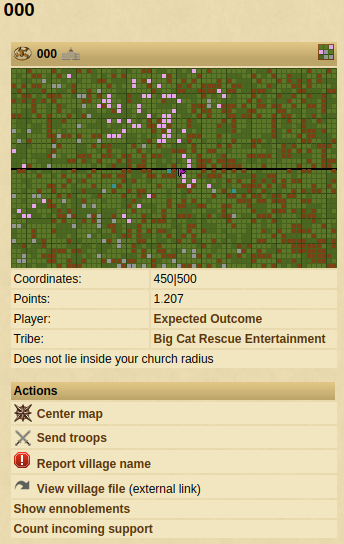
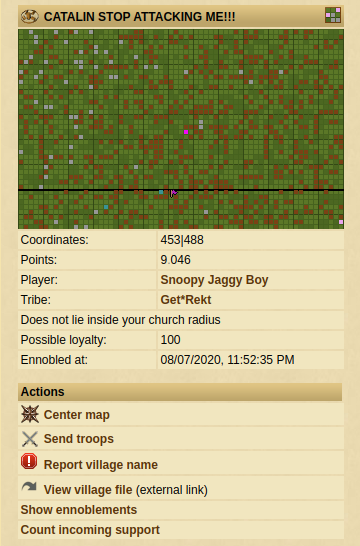
update readme.md and screenshots/extendedVillageProfile.png, translate some fields from extendedVillageProfile into Polish

diff --git a/dist/quickbar/extendedVillageProfile.js b/dist/quickbar/extendedVillageProfile.js
@@ -1,7 +1,7 @@
 parcelRequire=function(e,r,t,n){var i,o="function"==typeof parcelRequire&&parcelRequire,u="function"==typeof require&&require;function f(t,n){if(!r[t]){if(!e[t]){var i="function"==typeof parcelRequire&&parcelRequire;if(!n&&i)return i(t,!0);if(o)return o(t,!0);if(u&&"string"==typeof t)return u(t);var c=new Error("Cannot find module '"+t+"'");throw c.code="MODULE_NOT_FOUND",c}p.resolve=function(r){return e[t][1][r]||r},p.cache={};var l=r[t]=new f.Module(t);e[t][0].call(l.exports,p,l,l.exports,this)}return r[t].exports;function p(e){return f(p.resolve(e))}}f.isParcelRequire=!0,f.Module=function(e){this.id=e,this.bundle=f,this.exports={}},f.modules=e,f.cache=r,f.parent=o,f.register=function(r,t){e[r]=[function(e,r){r.exports=t},{}]};for(var c=0;c<t.length;c++)try{f(t[c])}catch(e){i||(i=e)}if(t.length){var l=f(t[t.length-1]);"object"==typeof exports&&"undefined"!=typeof module?module.exports=l:"function"==typeof define&&define.amd?define(function(){return l}):n&&(this[n]=l)}if(parcelRequire=f,i)throw i;return f}({"Ph2E":[function(require,module,exports) {
 "use strict";Object.defineProperty(exports,"__esModule",{value:!0}),exports.default=exports.API_URI=void 0;const e="https://api.tribalwarshelp.com/graphql";exports.API_URI=e;var r=function(){let{query:r,variables:t={}}=arguments.length>0&&void 0!==arguments[0]?arguments[0]:{};return fetch(e,{method:"POST",body:JSON.stringify({query:r,variables:t}),headers:{"Content-Type":"application/json"}}).then(e=>e.json()).then(e=>{let{data:r,errors:t}=e;if(t&&Array.isArray(t)&&t.length>0)throw new Error(t[0].message);return new Promise(e=>e(r))})};exports.default=r;
 },{}],"LNef":[function(require,module,exports) {
-"use strict";Object.defineProperty(exports,"__esModule",{value:!0}),exports.default=void 0;const o={pl_PL:{loaded:"Załadowano",pop:"Populacja",mySupport:"Moje wsparcie",allySupport:"Wsparcie plemienia",total:"Łącznie",action:{showEnnoblements:"Pokaż przejęcia",countIncomingSupport:"Policz nadchodzące wsparcie"}},en_DK:{loaded:"Loaded",pop:"Pop",mySupport:"My support",allySupport:"Ally support",total:"Total",action:{showEnnoblements:"Show ennoblements",countIncomingSupport:"Count incoming support"}}};var e=()=>o[window.game_data.locale]||o.en_DK;exports.default=e;
+"use strict";Object.defineProperty(exports,"__esModule",{value:!0}),exports.default=void 0;const o={pl_PL:{loaded:"Załadowano",pop:"Populacja",mySupport:"Moje wsparcie",allySupport:"Wsparcie plemienia",total:"Łącznie",possibleLoyalty:"Prawdopodobne poparcie",ennobledAt:"Podbita o",action:{showEnnoblements:"Pokaż przejęcia",countIncomingSupport:"Policz nadchodzące wsparcie"}},en_DK:{loaded:"Loaded",pop:"Pop",mySupport:"My support",allySupport:"Ally support",total:"Total",possibleLoyalty:"Possible loyalty",ennobledAt:"Ennobled at",action:{showEnnoblements:"Show ennoblements",countIncomingSupport:"Count incoming support"}}};var e=()=>o[window.game_data.locale]||o.en_DK;exports.default=e;
 },{}],"fCHX":[function(require,module,exports) {
 "use strict";Object.defineProperty(exports,"__esModule",{value:!0}),exports.generatePaginationItems=exports.calcNumberOfPages=exports.getPage=exports.setPage=exports.getContainerStyles=void 0;const e="data-page",t=()=>"display: flex; flex-direction: row; flex-wrap: wrap;";exports.getContainerStyles=t;const r=function(t){let r=arguments.length>1&&void 0!==arguments[1]?arguments[1]:1;if(!t instanceof HTMLElement)throw new Error("Expected HTMLElement as the first argument");if("number"!=typeof(r=parseInt(r))||isNaN(r))throw new Error("Expected number or string as the second argument");t.setAttribute(e,r+"")};exports.setPage=r;const n=t=>!t instanceof HTMLElement?0:parseInt(t.getAttribute(e));exports.getPage=n;const o=(e,t)=>{if("number"!=typeof e)throw new Error("Expected number as the first argument");if("number"!=typeof t)throw new Error("Expected number as the second argument");return e>0?Math.ceil(e/t):1};exports.calcNumberOfPages=o;const a=function(){let{total:t,limit:r,marginRight:n=3,currentPage:a=0}=arguments.length>0&&void 0!==arguments[0]?arguments[0]:{};const s=o(t,r),c=[];for(let o=1;o<=s;o++)o===a?c.push('<strong style="margin-right: '.concat(n,'px">>').concat(o,"<</strong>")):c.push('<a style="margin-right: '.concat(n,'px" href="#" ').concat(e,'="').concat(o,'">').concat(o,"</a>"));return c};exports.generatePaginationItems=a;
 },{}],"DMkL":[function(require,module,exports) {
@@ -35,5 +35,5 @@ parcelRequire=function(e,r,t,n){var i,o="function"==typeof parcelRequire&&parcel
 },{}],"vNT1":[function(require,module,exports) {
 "use strict";Object.defineProperty(exports,"__esModule",{value:!0}),exports.default=void 0;var t=l(require("../i18n/showEnnoblementsPopup")),e=require("../utils/pagination"),n=l(require("../utils/showPopup")),a=l(require("../utils/formatDate")),o=require("../utils/tribalwars");function l(t){return t&&t.__esModule?t:{default:t}}const r="ennoblementsPagination",i=(0,t.default)(),c=(t,e)=>t?'<td><a href="'.concat((0,o.formatPlayerURL)(t.id),'">').concat(t.name," (").concat(e?'<a href="'.concat((0,o.formatTribeURL)(e.id),'">').concat(e.tag,"</a>"):"-",")</a></td>"):"<td>-</td>";var d=function(t,l){let{limit:d=0,currentPage:s=1,onPageChange:u=(()=>{})}=arguments.length>2&&void 0!==arguments[2]?arguments[2]:{};const g=(0,e.generatePaginationItems)({total:l.total,limit:d,currentPage:s}),m='\n    <div style="'.concat((0,e.getContainerStyles)(),'" id="').concat(r,'">\n      ').concat(g.join(""),'\n    </div>\n    <table class="vis" style="border-collapse: separate; border-spacing: 2px; width: 100%;">\n      <tbody>\n        <tr>\n          <th>\n            ').concat(i.date,"\n          </th>\n          <th>\n            ").concat(i.village,"\n          </th>\n          <th>\n            ").concat(i.newOwner,"\n          </th>\n          <th>\n            ").concat(i.oldOwner,"\n          </th>\n        </tr>\n        ").concat(l.items.map(t=>{let e="<tr>"+"<td>".concat((0,a.default)(t.ennobledAt),"</td>");return t.village?e+='<td><a href="'.concat((0,o.formatVillageURL)(t.village.id),'">').concat((0,o.formatVillageName)(t.village.name,t.village.x,t.village.y),"</a></td>"):e+="<td>-</td>",e+=c(t.newOwner,t.newOwnerTribe),(e+=c(t.oldOwner,t.oldOwnerTribe))+"</tr>"}).join(""),"\n      </tbody>\n    </table>\n  ");(0,n.default)({e:t,title:i.title,id:"ennoblements",html:m}),document.querySelectorAll("#ennoblementsPagination a").forEach(t=>{t.addEventListener("click",u)})};exports.default=d;
 },{"../i18n/showEnnoblementsPopup":"tKRp","../utils/pagination":"fCHX","../utils/showPopup":"chDM","../utils/formatDate":"V6Mf","../utils/tribalwars":"fHHP"}],"UdfQ":[function(require,module,exports) {
-"use strict";var e=u(require("./libs/requestCreator")),n=u(require("./i18n/extendedVillageProfile")),t=require("./utils/pagination"),r=u(require("./utils/getCurrentServer")),o=u(require("./utils/getIDFromURL")),a=u(require("./utils/buildUnitImgURL")),i=u(require("./utils/formatDate")),l=u(require("./utils/wait")),c=require("./utils/localStorage"),s=u(require("./utils/countLoyalty")),d=u(require("./common/showEnnoblementsPopup"));function u(e){return e&&e.__esModule?e:{default:e}}function p(e,n){var t=Object.keys(e);if(Object.getOwnPropertySymbols){var r=Object.getOwnPropertySymbols(e);n&&(r=r.filter(function(n){return Object.getOwnPropertyDescriptor(e,n).enumerable})),t.push.apply(t,r)}return t}function m(e){for(var n=1;n<arguments.length;n++){var t=null!=arguments[n]?arguments[n]:{};n%2?p(Object(t),!0).forEach(function(n){g(e,n,t[n])}):Object.getOwnPropertyDescriptors?Object.defineProperties(e,Object.getOwnPropertyDescriptors(t)):p(Object(t)).forEach(function(n){Object.defineProperty(e,n,Object.getOwnPropertyDescriptor(t,n))})}return e}function g(e,n,t){return n in e?Object.defineProperty(e,n,{value:t,enumerable:!0,configurable:!0,writable:!0}):e[n]=t,e}const f=(0,r.default)(),b=(0,o.default)(window.location.search),h="\n    query ennoblements($server: String!, $filter: EnnoblementFilter!) {\n        ennoblements(server: $server, filter: $filter) {\n            items {\n                ennobledAt\n                village {\n                    id\n                }\n            }\n        }\n    }\n",y="\n    query ennoblements($server: String!, $filter: EnnoblementFilter!) {\n      ennoblements(server: $server, filter: $filter) {\n        total\n        items {\n          village {\n            id\n            name\n            x\n            y\n          }\n          oldOwner {\n            id\n            name\n          }\n          oldOwnerTribe {\n            id\n            tag\n          }\n          newOwner {\n            id\n            name\n          }\n          newOwnerTribe {\n            id\n            tag\n          }\n          ennobledAt\n        }\n      }\n    }\n",v=15,w="\n    query server($key: String!) {\n        server(key: $key) {\n            config {\n              speed\n            }\n            unitConfig {\n              spear {\n                pop\n              }\n              sword {\n                pop\n              }\n              axe {\n                pop\n              }\n              archer {\n                pop\n              }\n              spy {\n                pop\n              }\n              light {\n                pop\n              }\n              marcher {\n                pop\n              }\n              heavy {\n                pop\n              }\n              ram {\n                pop\n              }\n              catapult {\n                pop\n              }\n              knight {\n                pop\n              }\n              snob {\n                pop\n              }\n            }\n        }\n    }\n",q="kiszkowaty_extended_village_profile_server_cfg",O=document.querySelector("#content_value > table > tbody > tr > td:nth-child(1) > table:nth-child(2) > tbody"),S=document.querySelector("#content_value table.vis tbody");let E={};const j=(0,n.default)(),D=()=>(0,c.getItem)(q),P=function(){let e=arguments.length>0&&void 0!==arguments[0]?arguments[0]:{};(0,c.setItem)(q,e)},A=e=>Math.abs(e.getTime()-(new Date).getTime())>864e5,C=async()=>{let n=D();return n.server&&!A(new Date(n.loadedAt))&&n.server.unitConfig&&n.server.config||((n=await(0,e.default)({query:w,variables:{key:f}})).loadedAt=new Date,P(n)),n.server},L=async()=>{return await(0,e.default)({query:h,variables:{server:f,filter:{villageID:[b],sort:"ennobledAt DESC"}}})},_=async n=>{n.preventDefault();const r=(0,t.getPage)(n.target);if(!isNaN(r)){const t=await(0,e.default)({query:y,variables:{filter:{villageID:[b],offset:15*(r-1),limit:15,sort:"ennobledAt DESC"},server:f}});(0,d.default)(n,t.ennoblements,{currentPage:r,limit:15,onPageChange:_})}},k=e=>{const n=[];let t=0;for(let r in e)t+=e[r]*E.unitConfig[r].pop,n.push("<td>".concat(e[r].toLocaleString(),"</td>"));return n.push("<td><strong>".concat(t.toLocaleString(),"</strong></td>")),n},x=async e=>{e.preventDefault();const n=[],t={};document.querySelectorAll('span.command_hover_details[data-command-type="support"]').forEach(e=>{const r=parseInt(e.getAttribute("data-command-id"));e.classList.contains("commandicon-ally")?t[r]=!0:t[r]=!1,n.push(r)});const r={spear:0,sword:0,axe:0,archer:0,spy:0,light:0,marcher:0,heavy:0,ram:0,catapult:0,knight:0,snob:0},o=m({},r),i=m({},r);for(let a=0;a<n.length;a++){Dialog.show("incomingSupport","".concat(j.loaded,": <strong>").concat(a," / ").concat(n.length,"</strong>"));const e=n[a],c=TribalWars.buildURL("",{screen:"info_command",ajax:"details",id:e});try{const n=await fetch(c),{units:a}=await n.json();if(a)for(let l in r){const n=parseInt(a[l].count);t[e]?o[l]+=n:r[l]+=n,i[l]+=n}await(0,l.default)(200)}catch(g){console.log("count incoming support",g)}}const c=["<th></th>"];for(let l in r)c.push('<th><img src="'.concat((0,a.default)(l),'" /></th>'));c.push("<th>".concat(j.pop,"</th>"));const s=["<th>".concat(j.mySupport,"</th>"),...k(r)],d=["<th>".concat(j.allySupport,"</th>"),...k(o)],u=["<th>".concat(j.total,"</th>"),...k(i)];Dialog.show("incomingSupport",'\n    <table class="vis" style="width: 100%;">\n      <tbody>\n          <tr>\n            '.concat(c.join(""),"\n          </tr>\n          <tr>\n            ").concat(s.join(""),"\n          </tr>\n          <tr>\n            ").concat(d.join(""),"\n          </tr>\n          <tr>\n            ").concat(u.join(""),"\n          </tr>\n      </tbody>\n    </table>\n  "));const p=document.querySelector(".popup_box");p&&(p.style.width="auto",p.style.maxWidth="900px")},$=e=>{const n=document.createElement("td");n.colSpan="2",n.append(e);const t=document.createElement("tr");return t.appendChild(n),t},I=()=>{const e=document.createElement("a");e.href="#",(0,t.setPage)(e,"1"),e.innerHTML=j.action.showEnnoblements,e.addEventListener("click",_),O.appendChild($(e));const n=document.createElement("a");n.href="#",n.innerHTML=j.action.countIncomingSupport,n.addEventListener("click",x),O.appendChild($(n))},T=e=>{let{title:n,data:t,id:r}=e,o=document.querySelector("#"+r);o||((o=document.createElement("tr")).id=r,o.appendChild(document.createElement("td")),o.appendChild(document.createElement("td")),S.append(o)),o.children[0].innerHTML=n,o.children[1].innerHTML=t},M=function(){let{config:e,ennoblements:n}=arguments.length>0&&void 0!==arguments[0]?arguments[0]:{};const t=n&&Array.isArray(n.items)&&n.items[0]?n.items[0]:void 0;T({id:"loyalty",title:"Possible loyalty:",data:t?(0,s.default)(new Date(t.ennobledAt),e.speed):100}),T({id:"ennobledAt",title:"Ennobled at:",data:t?(0,i.default)(t.ennobledAt):"Never"})};!async function(){try{const n=await L();E=await C(),M({config:E.config,ennoblements:n.ennoblements}),I()}catch(e){console.log("extended village profile",e)}}();
+"use strict";var e=u(require("./libs/requestCreator")),n=u(require("./i18n/extendedVillageProfile")),t=require("./utils/pagination"),r=u(require("./utils/getCurrentServer")),o=u(require("./utils/getIDFromURL")),a=u(require("./utils/buildUnitImgURL")),i=u(require("./utils/formatDate")),l=u(require("./utils/wait")),c=require("./utils/localStorage"),s=u(require("./utils/countLoyalty")),d=u(require("./common/showEnnoblementsPopup"));function u(e){return e&&e.__esModule?e:{default:e}}function p(e,n){var t=Object.keys(e);if(Object.getOwnPropertySymbols){var r=Object.getOwnPropertySymbols(e);n&&(r=r.filter(function(n){return Object.getOwnPropertyDescriptor(e,n).enumerable})),t.push.apply(t,r)}return t}function m(e){for(var n=1;n<arguments.length;n++){var t=null!=arguments[n]?arguments[n]:{};n%2?p(Object(t),!0).forEach(function(n){g(e,n,t[n])}):Object.getOwnPropertyDescriptors?Object.defineProperties(e,Object.getOwnPropertyDescriptors(t)):p(Object(t)).forEach(function(n){Object.defineProperty(e,n,Object.getOwnPropertyDescriptor(t,n))})}return e}function g(e,n,t){return n in e?Object.defineProperty(e,n,{value:t,enumerable:!0,configurable:!0,writable:!0}):e[n]=t,e}const f=(0,r.default)(),b=(0,o.default)(window.location.search),h="\n    query ennoblements($server: String!, $filter: EnnoblementFilter!) {\n        ennoblements(server: $server, filter: $filter) {\n            items {\n                ennobledAt\n                village {\n                    id\n                }\n            }\n        }\n    }\n",y="\n    query ennoblements($server: String!, $filter: EnnoblementFilter!) {\n      ennoblements(server: $server, filter: $filter) {\n        total\n        items {\n          village {\n            id\n            name\n            x\n            y\n          }\n          oldOwner {\n            id\n            name\n          }\n          oldOwnerTribe {\n            id\n            tag\n          }\n          newOwner {\n            id\n            name\n          }\n          newOwnerTribe {\n            id\n            tag\n          }\n          ennobledAt\n        }\n      }\n    }\n",v=15,w="\n    query server($key: String!) {\n        server(key: $key) {\n            config {\n              speed\n            }\n            unitConfig {\n              spear {\n                pop\n              }\n              sword {\n                pop\n              }\n              axe {\n                pop\n              }\n              archer {\n                pop\n              }\n              spy {\n                pop\n              }\n              light {\n                pop\n              }\n              marcher {\n                pop\n              }\n              heavy {\n                pop\n              }\n              ram {\n                pop\n              }\n              catapult {\n                pop\n              }\n              knight {\n                pop\n              }\n              snob {\n                pop\n              }\n            }\n        }\n    }\n",q="kiszkowaty_extended_village_profile_server_cfg",O=document.querySelector("#content_value > table > tbody > tr > td:nth-child(1) > table:nth-child(2) > tbody"),S=document.querySelector("#content_value table.vis tbody");let j={};const D=(0,n.default)(),E=()=>(0,c.getItem)(q),P=function(){let e=arguments.length>0&&void 0!==arguments[0]?arguments[0]:{};(0,c.setItem)(q,e)},A=e=>Math.abs(e.getTime()-(new Date).getTime())>864e5,L=async()=>{let n=E();return n.server&&!A(new Date(n.loadedAt))&&n.server.unitConfig&&n.server.config||((n=await(0,e.default)({query:w,variables:{key:f}})).loadedAt=new Date,P(n)),n.server},C=async()=>{return await(0,e.default)({query:h,variables:{server:f,filter:{villageID:[b],sort:"ennobledAt DESC",limit:1}}})},_=async n=>{n.preventDefault();const r=(0,t.getPage)(n.target);if(!isNaN(r)){const t=await(0,e.default)({query:y,variables:{filter:{villageID:[b],offset:15*(r-1),limit:15,sort:"ennobledAt DESC"},server:f}});(0,d.default)(n,t.ennoblements,{currentPage:r,limit:15,onPageChange:_})}},k=e=>{const n=[];let t=0;for(let r in e)t+=e[r]*j.unitConfig[r].pop,n.push("<td>".concat(e[r].toLocaleString(),"</td>"));return n.push("<td><strong>".concat(t.toLocaleString(),"</strong></td>")),n},x=async e=>{e.preventDefault();const n=[],t={};document.querySelectorAll('span.command_hover_details[data-command-type="support"]').forEach(e=>{const r=parseInt(e.getAttribute("data-command-id"));e.classList.contains("commandicon-ally")?t[r]=!0:t[r]=!1,n.push(r)});const r={spear:0,sword:0,axe:0,archer:0,spy:0,light:0,marcher:0,heavy:0,ram:0,catapult:0,knight:0,snob:0},o=m({},r),i=m({},r);for(let a=0;a<n.length;a++){Dialog.show("incomingSupport","".concat(D.loaded,": <strong>").concat(a," / ").concat(n.length,"</strong>"));const e=n[a],c=TribalWars.buildURL("",{screen:"info_command",ajax:"details",id:e});try{const n=await fetch(c),{units:a}=await n.json();if(a)for(let l in r){const n=parseInt(a[l].count);t[e]?o[l]+=n:r[l]+=n,i[l]+=n}await(0,l.default)(200)}catch(g){console.log("count incoming support",g)}}const c=["<th></th>"];for(let l in r)c.push('<th><img src="'.concat((0,a.default)(l),'" /></th>'));c.push("<th>".concat(D.pop,"</th>"));const s=["<th>".concat(D.mySupport,"</th>"),...k(r)],d=["<th>".concat(D.allySupport,"</th>"),...k(o)],u=["<th>".concat(D.total,"</th>"),...k(i)];Dialog.show("incomingSupport",'\n    <table class="vis" style="width: 100%;">\n      <tbody>\n          <tr>\n            '.concat(c.join(""),"\n          </tr>\n          <tr>\n            ").concat(s.join(""),"\n          </tr>\n          <tr>\n            ").concat(d.join(""),"\n          </tr>\n          <tr>\n            ").concat(u.join(""),"\n          </tr>\n      </tbody>\n    </table>\n  "));const p=document.querySelector(".popup_box");p&&(p.style.width="auto",p.style.maxWidth="900px")},$=e=>{const n=document.createElement("td");n.colSpan="2",n.append(e);const t=document.createElement("tr");return t.appendChild(n),t},I=()=>{const e=document.createElement("a");e.href="#",(0,t.setPage)(e,"1"),e.innerHTML=D.action.showEnnoblements,e.addEventListener("click",_),O.appendChild($(e));const n=document.createElement("a");n.href="#",n.innerHTML=D.action.countIncomingSupport,n.addEventListener("click",x),O.appendChild($(n))},T=e=>{let{title:n,data:t,id:r}=e,o=document.querySelector("#"+r);o||((o=document.createElement("tr")).id=r,o.appendChild(document.createElement("td")),o.appendChild(document.createElement("td")),S.append(o)),o.children[0].innerHTML=n,o.children[1].innerHTML=t},M=function(){let{config:e,ennoblements:n}=arguments.length>0&&void 0!==arguments[0]?arguments[0]:{};const t=n&&Array.isArray(n.items)&&n.items[0]?n.items[0]:void 0;T({id:"loyalty",title:"".concat(D.possibleLoyalty,":"),data:t?(0,s.default)(new Date(t.ennobledAt),e.speed):100}),T({id:"ennobledAt",title:"".concat(D.ennobledAt,":"),data:t?(0,i.default)(t.ennobledAt):"Never"})};!async function(){try{const n=await C();j=await L(),M({config:j.config,ennoblements:n.ennoblements}),I()}catch(e){console.log("extended village profile",e)}}();
 },{"./libs/requestCreator":"Ph2E","./i18n/extendedVillageProfile":"LNef","./utils/pagination":"fCHX","./utils/getCurrentServer":"DMkL","./utils/getIDFromURL":"tQUs","./utils/buildUnitImgURL":"KX6P","./utils/formatDate":"V6Mf","./utils/wait":"oUdd","./utils/localStorage":"KWxH","./utils/countLoyalty":"ATOB","./common/showEnnoblementsPopup":"vNT1"}]},{},["UdfQ"], null)

diff --git a/dist/quickbar/extendedMapPopup.js b/dist/quickbar/extendedMapPopup.js
@@ -9,7 +9,7 @@ parcelRequire=function(e,r,t,n){var i,o="function"==typeof parcelRequire&&parcel
 },{"../_lib/toInteger/index.js":"VYL5","../toDate/index.js":"KYJg","../_lib/requiredArgs/index.js":"kK6Q"}],"pfh4":[function(require,module,exports) {
 "use strict";Object.defineProperty(exports,"__esModule",{value:!0}),exports.default=i;var e=u(require("../_lib/toInteger/index.js")),r=u(require("../addMilliseconds/index.js")),t=u(require("../_lib/requiredArgs/index.js"));function u(e){return e&&e.__esModule?e:{default:e}}var d=6e4;function i(u,i){(0,t.default)(2,arguments);var l=(0,e.default)(i);return(0,r.default)(u,l*d)}
 },{"../_lib/toInteger/index.js":"VYL5","../addMilliseconds/index.js":"umce","../_lib/requiredArgs/index.js":"kK6Q"}],"ddIN":[function(require,module,exports) {
-"use strict";Object.defineProperty(exports,"__esModule",{value:!0}),exports.default=void 0;const e={pl_PL:{ennobledAt:"Podbita o",never:"Nigdy",possibleLoyalty:"Możliwe poparcie",canSendNoble:"Można wysłać szlachcica",yes:"Tak",no:"Nie"},en_DK:{ennobledAt:"Ennobled at",never:"Never",possibleLoyalty:"Possible loyalty",canSendNoble:"Can send noble",yes:"Yes",no:"No"}};var o=()=>e[window.game_data.locale]||e.en_DK;exports.default=o;
+"use strict";Object.defineProperty(exports,"__esModule",{value:!0}),exports.default=void 0;const e={pl_PL:{ennobledAt:"Podbita o",never:"Nigdy",possibleLoyalty:"Prawdopodobne poparcie",canSendNoble:"Można wysłać szlachcica",yes:"Tak",no:"Nie"},en_DK:{ennobledAt:"Ennobled at",never:"Never",possibleLoyalty:"Possible loyalty",canSendNoble:"Can send noble",yes:"Yes",no:"No"}};var o=()=>e[window.game_data.locale]||e.en_DK;exports.default=o;
 },{}],"Ph2E":[function(require,module,exports) {
 "use strict";Object.defineProperty(exports,"__esModule",{value:!0}),exports.default=exports.API_URI=void 0;const e="https://api.tribalwarshelp.com/graphql";exports.API_URI=e;var r=function(){let{query:r,variables:t={}}=arguments.length>0&&void 0!==arguments[0]?arguments[0]:{};return fetch(e,{method:"POST",body:JSON.stringify({query:r,variables:t}),headers:{"Content-Type":"application/json"}}).then(e=>e.json()).then(e=>{let{data:r,errors:t}=e;if(t&&Array.isArray(t)&&t.length>0)throw new Error(t[0].message);return new Promise(e=>e(r))})};exports.default=r;
 },{}],"V6Mf":[function(require,module,exports) {
@@ -31,5 +31,5 @@ parcelRequire=function(e,r,t,n){var i,o="function"==typeof parcelRequire&&parcel
 },{"../differenceInMilliseconds/index.js":"H70G","../_lib/requiredArgs/index.js":"kK6Q"}],"ATOB":[function(require,module,exports) {
 "use strict";Object.defineProperty(exports,"__esModule",{value:!0}),exports.default=void 0;var e=t(require("date-fns/differenceInMinutes"));function t(e){return e&&e.__esModule?e:{default:e}}var r=(t,r)=>{let u=25+Math.abs((0,e.default)(t,new Date))*(r/60);return u>100&&(u=100),Math.floor(u)};exports.default=r;
 },{"date-fns/differenceInMinutes":"oGJj"}],"HdqX":[function(require,module,exports) {
-"use strict";var e=c(require("date-fns/addMinutes")),n=c(require("./i18n/extendedMapPopup")),t=c(require("./libs/requestCreator")),r=c(require("./utils/formatDate")),a=c(require("./utils/getCurrentServer")),o=require("./utils/math"),i=c(require("./utils/buildUnitImgURL")),l=require("./utils/localStorage"),p=require("./utils/tribalwars"),d=c(require("./utils/countLoyalty"));function c(e){return e&&e.__esModule?e:{default:e}}function s(e,n){var t=Object.keys(e);if(Object.getOwnPropertySymbols){var r=Object.getOwnPropertySymbols(e);n&&(r=r.filter(function(n){return Object.getOwnPropertyDescriptor(e,n).enumerable})),t.push.apply(t,r)}return t}function u(e){for(var n=1;n<arguments.length;n++){var t=null!=arguments[n]?arguments[n]:{};n%2?s(Object(t),!0).forEach(function(n){g(e,n,t[n])}):Object.getOwnPropertyDescriptors?Object.defineProperties(e,Object.getOwnPropertyDescriptors(t)):s(Object(t)).forEach(function(n){Object.defineProperty(e,n,Object.getOwnPropertyDescriptor(t,n))})}return e}function g(e,n,t){return n in e?Object.defineProperty(e,n,{value:t,enumerable:!0,configurable:!0,writable:!0}):e[n]=t,e}const y=(0,a.default)(),f="\n    query server($key: String!) {\n        server(key: $key) {\n            config {\n                speed\n                unitSpeed\n                snob {\n                  maxDist\n                }\n            }\n            unitConfig {\n              spear {\n                speed\n              }\n              sword {\n                speed\n              }\n              axe {\n                speed\n              }\n              archer {\n                speed\n              }\n              spy {\n                speed\n              }\n              light {\n                speed\n              }\n              marcher {\n                speed\n              }\n              heavy {\n                speed\n              }\n              ram {\n                speed\n              }\n              catapult {\n                speed\n              }\n              knight {\n                speed\n              }\n              snob {\n                speed\n              }\n            }\n        }\n    }\n",b="\n    query ennoblements($server: String!, $filter: EnnoblementFilter!) {\n        ennoblements(server: $server, filter: $filter) {\n            items {\n                ennobledAt\n                village {\n                    id\n                }\n            }\n        }\n    }\n",m="kiszkowaty_extended_map_popup_server_cfg",v=(0,n.default)(),h=()=>(0,l.getItem)(m),w=function(){let e=arguments.length>0&&void 0!==arguments[0]?arguments[0]:{};(0,l.setItem)(m,e)},M=e=>Math.abs(e.getTime()-(new Date).getTime())>864e5,T=async()=>{let e=h();return e&&e.server&&!M(new Date(e.loadedAt))&&e.server.config&&e.server.config.speed&&e.server.config.snob&&e.server.config.snob.maxDist&&e.server.config.unitSpeed&&e.server.unitConfig||((e=await(0,t.default)({query:f,variables:{key:y}})).loadedAt=new Date,w(e)),e&&e.server&&e.server.config?{config:e.server.config,unitConfig:e.server.unitConfig}:{}},q=async function(e){let{cacheOnly:n=!1}=arguments.length>1&&void 0!==arguments[1]?arguments[1]:{};if(n||TWMap.popup.extendedMapPopupCache[e])return TWMap.popup.extendedMapPopupCache[e];try{const n=await(0,t.default)({query:b,variables:{server:y,filter:{villageID:[e],sort:"ennobledAt DESC"}}});return TWMap.popup.extendedMapPopupCache[e]=n,n}catch(r){console.log("loadVillageData",r)}},O=function(){let e=arguments.length>0&&void 0!==arguments[0]?arguments[0]:{};const n=[];for(let t in e)0!==e[t].speed&&n.push(u(u({},e[t]),{},{name:t,img:(0,i.default)(t)}));return n},S=e=>e%2==0?"#f8f4e8":"#ded3b9;",C=(e,n)=>'\n    <td style="padding: 2px; background-color: '.concat(S(n),';">\n      <img\n        src="').concat(e.img,'"\n        title="').concat(e.name,'"\n        alt="').concat(e.name,'"\n      />\n    </td>\n  '),D=(n,t)=>'\n    <td style="padding: 2px; background-color: '.concat(S(t),';">\n      ').concat((0,r.default)((0,e.default)(new Date(Timing.getCurrentServerTime()),n)),"\n    </td>\n  "),x=(e,n,t)=>{let{config:a,unitConfig:i}=t;const l=TWMap.CoordByXY(TWMap.villageKey[e]),c=(0,o.calcDistanceBetweenTwoPoints)(l[0],l[1],window.game_data.village.x,window.game_data.village.y),s=n&&n.ennoblements&&n.ennoblements.items&&n.ennoblements.items.length>0?n.ennoblements.items[0]:void 0,u=document.querySelector("#map_popup #info_content tbody");let g=u.querySelector("#units");g||((g=document.createElement("tr")).id="units",u.appendChild(g));const y=O(i);g.innerHTML='\n          <td colspan="2">\n            <table style="border: 1px solid #ded3b9; max-width: 450px;"\n              width="100%"\n              cellpadding="0"\n              cellspacing="0">\n              <tbody>\n                <tr class="center">\n                  '.concat(y.map(C).join(""),'\n                </tr>\n                <tr class="center">\n                  ').concat(y.map((e,n)=>D((0,p.calcAttackDuration)(c,a.unitSpeed,e.speed),n)).join(""),"\n                </tr>\n              </tbody>\n            </table>\n          </td>\n      ");let f=u.querySelector("#lastEnnobledAt");f||((f=document.createElement("tr")).id="lastEnnobledAt",u.appendChild(f)),f.innerHTML="\n          <td>\n              ".concat(v.ennobledAt,":\n          </td>\n          <td>\n              ").concat(s?(0,r.default)(s.ennobledAt):v.never,"\n          </td>\n      ");let b=u.querySelector("#loyalty");b||((b=document.createElement("tr")).id="loyalty",u.appendChild(b)),b.innerHTML="\n          <td>\n              ".concat(v.possibleLoyalty,":\n          </td>\n          <td>\n              ").concat(s?(0,d.default)(new Date(s.ennobledAt),a.speed):100,"\n          </td>\n      ");let m=u.querySelector("#canSendNoble");m||((m=document.createElement("tr")).id="canSendNoble",u.appendChild(m)),m.innerHTML="\n          <td>\n              ".concat(v.canSendNoble,":\n          </td>\n          <td>\n              ").concat(c<a.snob.maxDist?v.yes:v.no,"\n          </td>\n      ")},P=e=>async n=>{TWMap.popup._loadVillage(n);const t=await q(parseInt(n));x(parseInt(n),t,e)},_=e=>async(n,t,r)=>{TWMap.popup._displayForVillage(n,t,r);const a=await q(parseInt(n.id),{cacheOnly:window.game_data.features.Premium.active});x(parseInt(n.id),a,e)};!async function(){try{const n=await T();TWMap.popup.extendedMapPopupCache={},TWMap.popup._loadVillage=TWMap.popup.loadVillage,TWMap.popup.loadVillage=P(n),TWMap.popup._displayForVillage=TWMap.popup.displayForVillage,TWMap.popup.displayForVillage=_(n)}catch(e){console.log("extended map popup",e)}}();
+"use strict";var e=c(require("date-fns/addMinutes")),n=c(require("./i18n/extendedMapPopup")),t=c(require("./libs/requestCreator")),r=c(require("./utils/formatDate")),a=c(require("./utils/getCurrentServer")),o=require("./utils/math"),i=c(require("./utils/buildUnitImgURL")),l=require("./utils/localStorage"),p=require("./utils/tribalwars"),d=c(require("./utils/countLoyalty"));function c(e){return e&&e.__esModule?e:{default:e}}function s(e,n){var t=Object.keys(e);if(Object.getOwnPropertySymbols){var r=Object.getOwnPropertySymbols(e);n&&(r=r.filter(function(n){return Object.getOwnPropertyDescriptor(e,n).enumerable})),t.push.apply(t,r)}return t}function u(e){for(var n=1;n<arguments.length;n++){var t=null!=arguments[n]?arguments[n]:{};n%2?s(Object(t),!0).forEach(function(n){g(e,n,t[n])}):Object.getOwnPropertyDescriptors?Object.defineProperties(e,Object.getOwnPropertyDescriptors(t)):s(Object(t)).forEach(function(n){Object.defineProperty(e,n,Object.getOwnPropertyDescriptor(t,n))})}return e}function g(e,n,t){return n in e?Object.defineProperty(e,n,{value:t,enumerable:!0,configurable:!0,writable:!0}):e[n]=t,e}const y=(0,a.default)(),f="\n    query server($key: String!) {\n        server(key: $key) {\n            config {\n                speed\n                unitSpeed\n                snob {\n                  maxDist\n                }\n            }\n            unitConfig {\n              spear {\n                speed\n              }\n              sword {\n                speed\n              }\n              axe {\n                speed\n              }\n              archer {\n                speed\n              }\n              spy {\n                speed\n              }\n              light {\n                speed\n              }\n              marcher {\n                speed\n              }\n              heavy {\n                speed\n              }\n              ram {\n                speed\n              }\n              catapult {\n                speed\n              }\n              knight {\n                speed\n              }\n              snob {\n                speed\n              }\n            }\n        }\n    }\n",b="\n    query ennoblements($server: String!, $filter: EnnoblementFilter!) {\n        ennoblements(server: $server, filter: $filter) {\n            items {\n                ennobledAt\n                village {\n                    id\n                }\n            }\n        }\n    }\n",m="kiszkowaty_extended_map_popup_server_cfg",v=(0,n.default)(),h=()=>(0,l.getItem)(m),w=function(){let e=arguments.length>0&&void 0!==arguments[0]?arguments[0]:{};(0,l.setItem)(m,e)},M=e=>Math.abs(e.getTime()-(new Date).getTime())>864e5,T=async()=>{let e=h();return e&&e.server&&!M(new Date(e.loadedAt))&&e.server.config&&e.server.config.speed&&e.server.config.snob&&e.server.config.snob.maxDist&&e.server.config.unitSpeed&&e.server.unitConfig||((e=await(0,t.default)({query:f,variables:{key:y}})).loadedAt=new Date,w(e)),e&&e.server&&e.server.config?{config:e.server.config,unitConfig:e.server.unitConfig}:{}},q=async function(e){let{cacheOnly:n=!1}=arguments.length>1&&void 0!==arguments[1]?arguments[1]:{};if(n||TWMap.popup.extendedMapPopupCache[e])return TWMap.popup.extendedMapPopupCache[e];try{const n=await(0,t.default)({query:b,variables:{server:y,filter:{villageID:[e],sort:"ennobledAt DESC",limit:1}}});return TWMap.popup.extendedMapPopupCache[e]=n,n}catch(r){console.log("loadVillageData",r)}},O=function(){let e=arguments.length>0&&void 0!==arguments[0]?arguments[0]:{};const n=[];for(let t in e)0!==e[t].speed&&n.push(u(u({},e[t]),{},{name:t,img:(0,i.default)(t)}));return n},S=e=>e%2==0?"#f8f4e8":"#ded3b9;",C=(e,n)=>'\n    <td style="padding: 2px; background-color: '.concat(S(n),';">\n      <img\n        src="').concat(e.img,'"\n        title="').concat(e.name,'"\n        alt="').concat(e.name,'"\n      />\n    </td>\n  '),D=(n,t)=>'\n    <td style="padding: 2px; background-color: '.concat(S(t),';">\n      ').concat((0,r.default)((0,e.default)(new Date(Timing.getCurrentServerTime()),n)),"\n    </td>\n  "),x=(e,n,t)=>{let{config:a,unitConfig:i}=t;const l=TWMap.CoordByXY(TWMap.villageKey[e]),c=(0,o.calcDistanceBetweenTwoPoints)(l[0],l[1],window.game_data.village.x,window.game_data.village.y),s=n&&n.ennoblements&&n.ennoblements.items&&n.ennoblements.items.length>0?n.ennoblements.items[0]:void 0,u=document.querySelector("#map_popup #info_content tbody");let g=u.querySelector("#units");g||((g=document.createElement("tr")).id="units",u.appendChild(g));const y=O(i);g.innerHTML='\n          <td colspan="2">\n            <table style="border: 1px solid #ded3b9; max-width: 450px;"\n              width="100%"\n              cellpadding="0"\n              cellspacing="0">\n              <tbody>\n                <tr class="center">\n                  '.concat(y.map(C).join(""),'\n                </tr>\n                <tr class="center">\n                  ').concat(y.map((e,n)=>D((0,p.calcAttackDuration)(c,a.unitSpeed,e.speed),n)).join(""),"\n                </tr>\n              </tbody>\n            </table>\n          </td>\n      ");let f=u.querySelector("#lastEnnobledAt");f||((f=document.createElement("tr")).id="lastEnnobledAt",u.appendChild(f)),f.innerHTML="\n          <td>\n              ".concat(v.ennobledAt,":\n          </td>\n          <td>\n              ").concat(s?(0,r.default)(s.ennobledAt):v.never,"\n          </td>\n      ");let b=u.querySelector("#loyalty");b||((b=document.createElement("tr")).id="loyalty",u.appendChild(b)),b.innerHTML="\n          <td>\n              ".concat(v.possibleLoyalty,":\n          </td>\n          <td>\n              ").concat(s?(0,d.default)(new Date(s.ennobledAt),a.speed):100,"\n          </td>\n      ");let m=u.querySelector("#canSendNoble");m||((m=document.createElement("tr")).id="canSendNoble",u.appendChild(m)),m.innerHTML="\n          <td>\n              ".concat(v.canSendNoble,":\n          </td>\n          <td>\n              ").concat(c<a.snob.maxDist?v.yes:v.no,"\n          </td>\n      ")},P=e=>async n=>{TWMap.popup._loadVillage(n);const t=await q(parseInt(n));x(parseInt(n),t,e)},_=e=>async(n,t,r)=>{TWMap.popup._displayForVillage(n,t,r);const a=await q(parseInt(n.id),{cacheOnly:window.game_data.features.Premium.active});x(parseInt(n.id),a,e)};!async function(){try{const n=await T();TWMap.popup.extendedMapPopupCache={},TWMap.popup._loadVillage=TWMap.popup.loadVillage,TWMap.popup.loadVillage=P(n),TWMap.popup._displayForVillage=TWMap.popup.displayForVillage,TWMap.popup.displayForVillage=_(n)}catch(e){console.log("extended map popup",e)}}();
 },{"date-fns/addMinutes":"pfh4","./i18n/extendedMapPopup":"ddIN","./libs/requestCreator":"Ph2E","./utils/formatDate":"V6Mf","./utils/getCurrentServer":"DMkL","./utils/math":"XOOL","./utils/buildUnitImgURL":"KX6P","./utils/localStorage":"KWxH","./utils/tribalwars":"fHHP","./utils/countLoyalty":"ATOB"}]},{},["HdqX"], null)

diff --git a/dist/extendedVillageProfile.js b/dist/extendedVillageProfile.js
@@ -172,6 +172,8 @@ const translations = {
     mySupport: 'Moje wsparcie',
     allySupport: 'Wsparcie plemienia',
     total: 'Łącznie',
+    possibleLoyalty: 'Prawdopodobne poparcie',
+    ennobledAt: 'Podbita o',
     action: {
       showEnnoblements: 'Pokaż przejęcia',
       countIncomingSupport: 'Policz nadchodzące wsparcie'
@@ -183,6 +185,8 @@ const translations = {
     mySupport: 'My support',
     allySupport: 'Ally support',
     total: 'Total',
+    possibleLoyalty: 'Possible loyalty',
+    ennobledAt: 'Ennobled at',
     action: {
       showEnnoblements: 'Show ennoblements',
       countIncomingSupport: 'Count incoming support'
@@ -797,7 +801,7 @@ function _defineProperty(obj, key, value) { if (key in obj) { Object.definePrope
 // @namespace    https://github.com/tribalwarshelp/scripts
 // @updateURL    https://raw.githubusercontent.com/tribalwarshelp/scripts/master/dist/extendedVillageProfile.js
 // @downloadURL  https://raw.githubusercontent.com/tribalwarshelp/scripts/master/dist/extendedVillageProfile.js
-// @version      0.6.7
+// @version      0.6.8
 // @description  Extended Village Profile
 // @author       Kichiyaki http://dawid-wysokinski.pl/
 // @match        *://*/game.php*screen=info_village*
@@ -853,7 +857,8 @@ const loadPageData = async () => {
       server: SERVER,
       filter: {
         villageID: [VILLAGE_ID],
-        sort: 'ennobledAt DESC'
+        sort: 'ennobledAt DESC',
+        limit: 1
       }
     }
   });
@@ -1037,12 +1042,12 @@ const renderAdditionalInfo = function renderAdditionalInfo() {
   const firstEnnoblement = ennoblements && Array.isArray(ennoblements.items) && ennoblements.items[0] ? ennoblements.items[0] : undefined;
   renderTr({
     id: 'loyalty',
-    title: 'Possible loyalty:',
+    title: "".concat(translations.possibleLoyalty, ":"),
     data: firstEnnoblement ? (0, _countLoyalty.default)(new Date(firstEnnoblement.ennobledAt), config.speed) : 100
   });
   renderTr({
     id: 'ennobledAt',
-    title: 'Ennobled at:',
+    title: "".concat(translations.ennobledAt, ":"),
     data: firstEnnoblement ? (0, _formatDate.default)(firstEnnoblement.ennobledAt) : 'Never'
   });
 };

diff --git a/src/extendedVillageProfile.js b/src/extendedVillageProfile.js
@@ -15,7 +15,7 @@ import showEnnoblementsPopup from './common/showEnnoblementsPopup';
 // @namespace    https://github.com/tribalwarshelp/scripts
 // @updateURL    https://raw.githubusercontent.com/tribalwarshelp/scripts/master/dist/extendedVillageProfile.js
 // @downloadURL  https://raw.githubusercontent.com/tribalwarshelp/scripts/master/dist/extendedVillageProfile.js
-// @version      0.6.7
+// @version      0.6.8
 // @description  Extended Village Profile
 // @author       Kichiyaki http://dawid-wysokinski.pl/
 // @match        *://*/game.php*screen=info_village*
@@ -168,6 +168,7 @@ const loadPageData = async () => {
       filter: {
         villageID: [VILLAGE_ID],
         sort: 'ennobledAt DESC',
+        limit: 1,
       },
     },
   });
@@ -375,14 +376,14 @@ const renderAdditionalInfo = ({ config, ennoblements } = {}) => {
       : undefined;
   renderTr({
     id: 'loyalty',
-    title: 'Possible loyalty:',
+    title: `${translations.possibleLoyalty}:`,
     data: firstEnnoblement
       ? countLoyalty(new Date(firstEnnoblement.ennobledAt), config.speed)
       : 100,
   });
   renderTr({
     id: 'ennobledAt',
-    title: 'Ennobled at:',
+    title: `${translations.ennobledAt}:`,
     data: firstEnnoblement ? formatDate(firstEnnoblement.ennobledAt) : 'Never',
   });
 };

diff --git a/dist/extendedMapPopup.js b/dist/extendedMapPopup.js
@@ -313,7 +313,7 @@ const translations = {
   pl_PL: {
     ennobledAt: 'Podbita o',
     never: 'Nigdy',
-    possibleLoyalty: 'Możliwe poparcie',
+    possibleLoyalty: 'Prawdopodobne poparcie',
     canSendNoble: 'Można wysłać szlachcica',
     yes: 'Tak',
     no: 'Nie'
@@ -675,7 +675,7 @@ function _defineProperty(obj, key, value) { if (key in obj) { Object.definePrope
 // @namespace    https://github.com/tribalwarshelp/scripts
 // @updateURL    https://raw.githubusercontent.com/tribalwarshelp/scripts/master/dist/extendedMapPopup.js
 // @downloadURL  https://raw.githubusercontent.com/tribalwarshelp/scripts/master/dist/extendedMapPopup.js
-// @version      0.6.0
+// @version      0.6.1
 // @description  Extended Map Popup
 // @author       Kichiyaki http://dawid-wysokinski.pl/
 // @match        *://*/game.php*screen=map*
@@ -736,7 +736,8 @@ const loadVillageData = async function loadVillageData(id) {
         server: SERVER,
         filter: {
           villageID: [id],
-          sort: 'ennobledAt DESC'
+          sort: 'ennobledAt DESC',
+          limit: 1
         }
       }
     });

diff --git a/src/extendedMapPopup.js b/src/extendedMapPopup.js
@@ -14,7 +14,7 @@ import countLoyalty from './utils/countLoyalty';
 // @namespace    https://github.com/tribalwarshelp/scripts
 // @updateURL    https://raw.githubusercontent.com/tribalwarshelp/scripts/master/dist/extendedMapPopup.js
 // @downloadURL  https://raw.githubusercontent.com/tribalwarshelp/scripts/master/dist/extendedMapPopup.js
-// @version      0.6.0
+// @version      0.6.1
 // @description  Extended Map Popup
 // @author       Kichiyaki http://dawid-wysokinski.pl/
 // @match        *://*/game.php*screen=map*
@@ -141,6 +141,7 @@ const loadVillageData = async (id, { cacheOnly = false } = {}) => {
         filter: {
           villageID: [id],
           sort: 'ennobledAt DESC',
+          limit: 1,
         },
       },
     });

diff --git a/src/i18n/extendedVillageProfile.js b/src/i18n/extendedVillageProfile.js
@@ -5,6 +5,8 @@ const translations = {
     mySupport: 'Moje wsparcie',
     allySupport: 'Wsparcie plemienia',
     total: 'Łącznie',
+    possibleLoyalty: 'Prawdopodobne poparcie',
+    ennobledAt: 'Podbita o',
     action: {
       showEnnoblements: 'Pokaż przejęcia',
       countIncomingSupport: 'Policz nadchodzące wsparcie',
@@ -16,6 +18,8 @@ const translations = {
     mySupport: 'My support',
     allySupport: 'Ally support',
     total: 'Total',
+    possibleLoyalty: 'Possible loyalty',
+    ennobledAt: 'Ennobled at',
     action: {
       showEnnoblements: 'Show ennoblements',
       countIncomingSupport: 'Count incoming support',

diff --git a/src/i18n/extendedMapPopup.js b/src/i18n/extendedMapPopup.js
@@ -2,7 +2,7 @@ const translations = {
   pl_PL: {
     ennobledAt: 'Podbita o',
     never: 'Nigdy',
-    possibleLoyalty: 'Możliwe poparcie',
+    possibleLoyalty: 'Prawdopodobne poparcie',
     canSendNoble: 'Można wysłać szlachcica',
     yes: 'Tak',
     no: 'Nie',

diff --git a/readme.md b/readme.md
@@ -32,7 +32,7 @@ This script shows you the latest ennoblements from your server. Works in real-ti
 
 [Code](https://raw.githubusercontent.com/tribalwarshelp/scripts/master/dist/extendedPlayerProfile.js)
 
-This script adds a lot of useful actions and pieces of information to the player profile.
+This script adds many useful actions and pieces of information to the player profile.
 
 - Daily growth
 - Best rank
@@ -57,7 +57,7 @@ New actions:
 
 [Code](https://raw.githubusercontent.com/tribalwarshelp/scripts/master/dist/extendedTribeProfile.js)
 
-This script adds a lot of useful actions and pieces of information to the tribe profile.
+This script adds many useful actions and pieces of information to the tribe profile.
 
 - Dominance
 - Best rank
@@ -82,7 +82,12 @@ New actions:
 
 [Code](https://raw.githubusercontent.com/tribalwarshelp/scripts/master/dist/extendedVillageProfile.js)
 
-This script adds new actions:
+This script adds new actions and pieces of information to the village profile.
+
+- Possible loyalty
+- Last ennoble date
+
+New actions:
 
 - Show ennoblements
 - Count incoming support
@@ -110,7 +115,7 @@ Adds to map screen new functionality to search bonus barbarian villages easily.
 Adds to popup:
 
 - Information about possible loyalty
-- Ennoble date
+- Last ennoble date
 - Information if you can send noble from the current village
 - Unit arrival time
 
